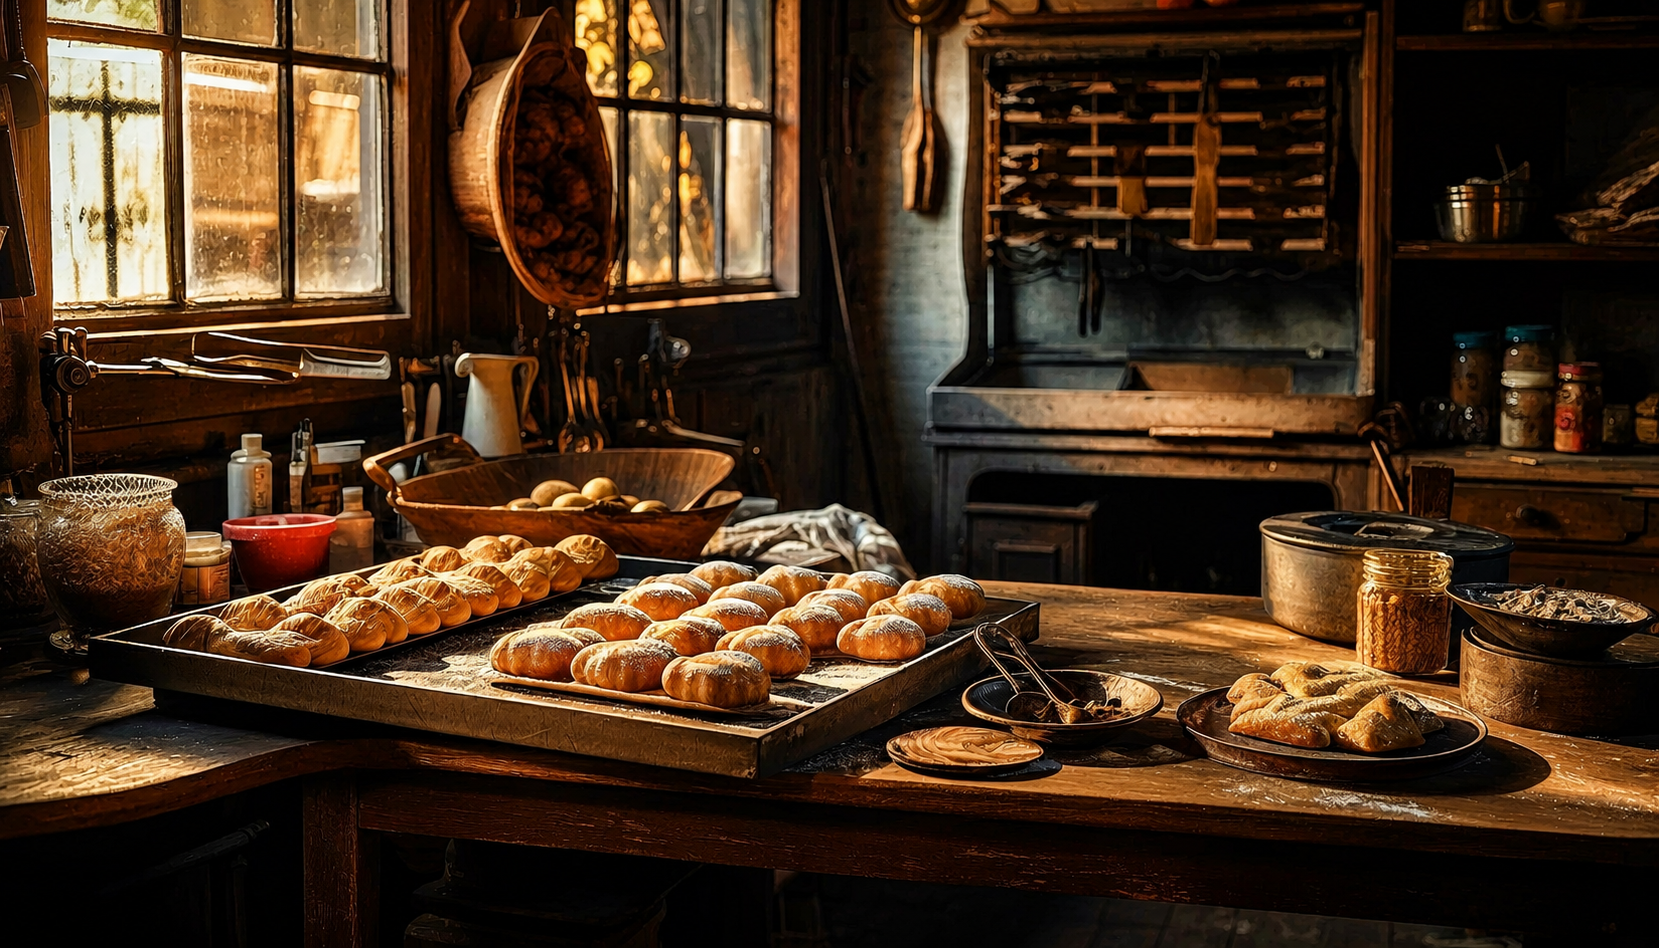
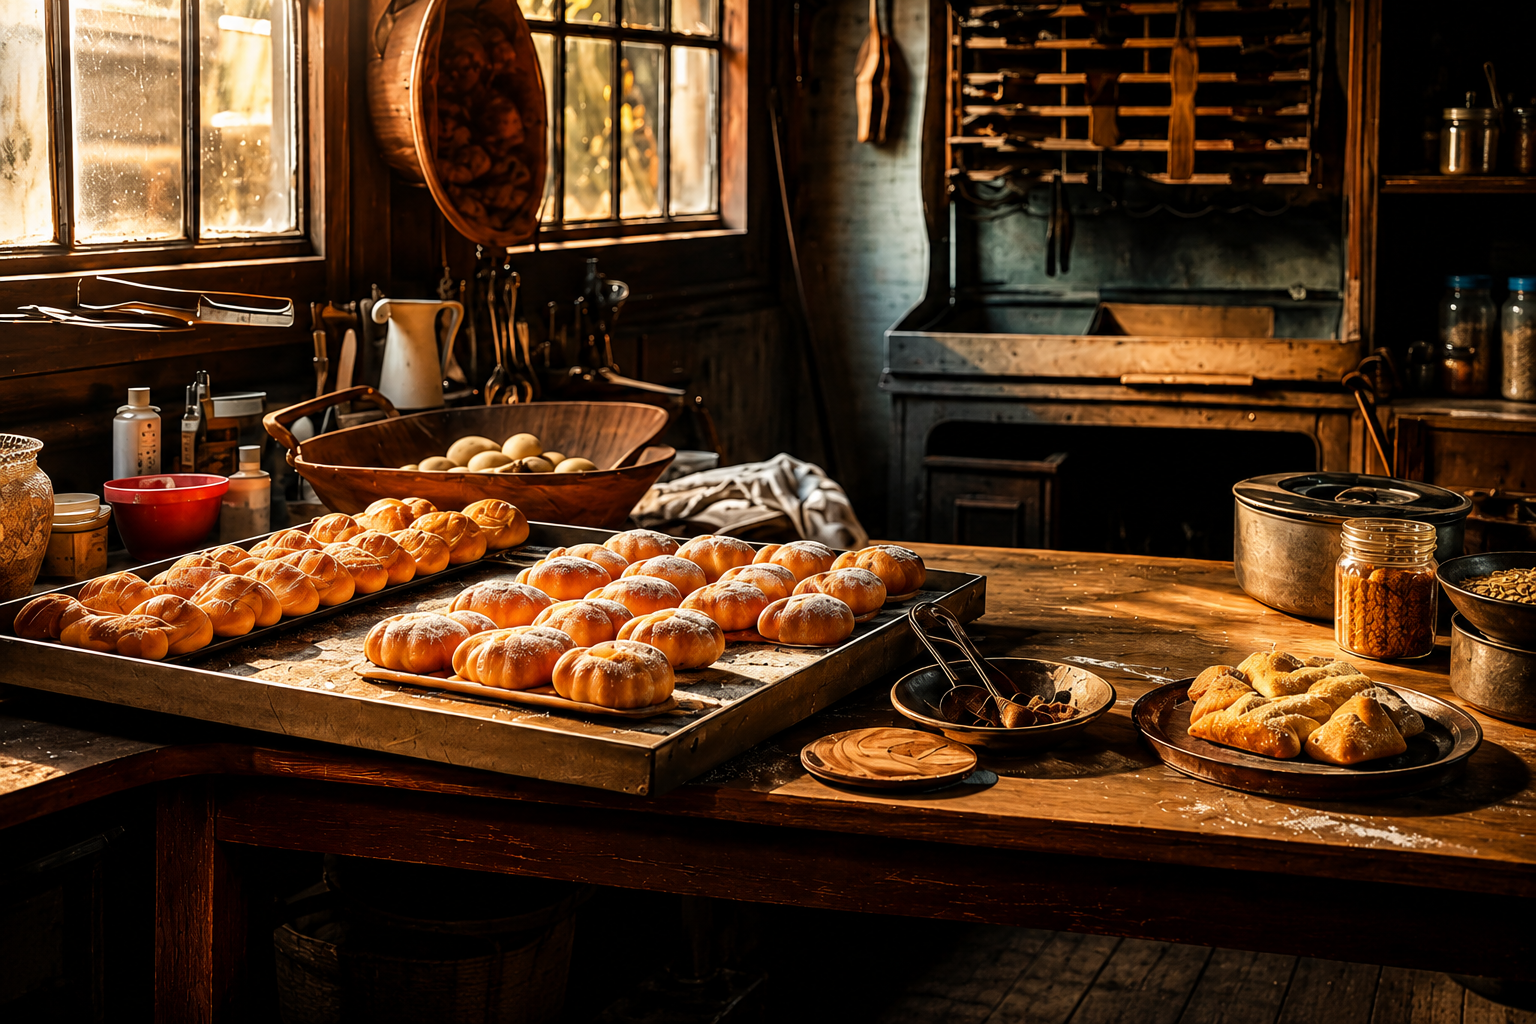
feat: update Home page styling and add new home image

diff --git a/src/app/pages/Home.tsx b/src/app/pages/Home.tsx
@@ -36,9 +36,9 @@ export default function Home() {
           <img
             src={homeImg}
             alt="Chocolate drip cake with cupcakes"
-            className="w-full h-full object-cover object-left"
+            className="w-full h-full object-cover object-left filter contrast-110 saturate-110 brightness-95"
           />
-          <div className="absolute inset-0 bg-gradient-to-r from-[#f5f0eb] via-[#f5f0eb]/70 to-transparent md:via-[#f5f0eb]/40" />
+          <div className="absolute inset-0 bg-gradient-to-r from-[#f5f0eb] via-[#f5f0eb]/60 to-transparent md:via-[#f5f0eb]/35" />
         </div>
 
         {/* Text content */}
